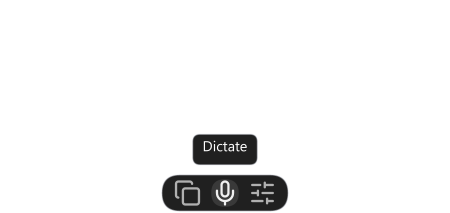
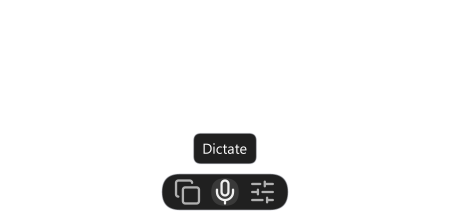
Prototype: islands are the hover bar only; centre the label text (#33)
Scoping call: a click-started recording stays one body. Islands are a shelf
of things you might pick; a session in progress is one object with a stop
and a cancel on it, and three floating pieces would say it is three things.

That gives clicking Dictate a shape change to make as well, so the two
bodies now crossfade while the glyphs travel. The mid-transition island
spacing does not track the recording layout — it does not need to while it
is fading out, but it is an approximation worth naming.

Also fixes the label: it was positioned on advance widths and a guessed
baseline, so the text sat off-centre by a different amount per string.
It now centres the ink horizontally and the cap band vertically.

Changed region(s): [[0.4044, 0.6226, 0.5911, 0.7642], [0.4044, 0.8208, 0.6222, 0.8491], [0.4356, 0.7642, 0.56, 0.7925]]

diff --git a/prototypes/pill_loop_proto.rs b/prototypes/pill_loop_proto.rs
@@ -474,9 +474,36 @@ impl TextRenderer {
         }
     }
 
-    fn width(&self, text: &str, px: f32) -> f32 {
-        let Some(f) = &self.font else { return 0.0 };
-        text.chars().map(|c| f.metrics(c, px).advance_width).sum()
+    /// Where the string's *ink* actually starts and ends, relative to the pen
+    /// origin. Advance widths include side bearings, so centring on them
+    /// leaves the visible text off-centre — by different amounts per string,
+    /// which is what makes it look sloppy rather than merely shifted.
+    fn ink_span(&self, text: &str, px: f32) -> (f32, f32) {
+        let Some(f) = &self.font else { return (0.0, 0.0) };
+        let (mut pen, mut lo, mut hi) = (0.0f32, f32::MAX, f32::MIN);
+        for ch in text.chars() {
+            let m = f.metrics(ch, px);
+            if m.width > 0 {
+                lo = lo.min(pen + m.xmin as f32);
+                hi = hi.max(pen + m.xmin as f32 + m.width as f32);
+            }
+            pen += m.advance_width;
+        }
+        if lo > hi {
+            (0.0, pen)
+        } else {
+            (lo, hi)
+        }
+    }
+
+    /// Height of a capital, for optical vertical centring. Centring the cap
+    /// band rather than the ink keeps "Dictate" and "Copy last transcript" on
+    /// the same line despite one having descenders.
+    fn cap_height(&self, px: f32) -> f32 {
+        self.font
+            .as_ref()
+            .map(|f| f.metrics('H', px).height as f32)
+            .unwrap_or(px * 0.7)
     }
 
     /// Draw `text` with its left edge at `x` and its baseline at `baseline`,
@@ -1103,11 +1130,32 @@ impl App {
             style: self.body(),
         }
     }
+    /// Always UNIFIED, whatever Q0 says. Islands are the *resident pill's
+    /// hover bar* — a shelf of things you might pick. A session in progress is
+    /// one object with a stop and a cancel on it, and breaking it into three
+    /// floating pieces would say the recording is three things.
     fn recclick_layout(&self) -> Layout {
         Layout {
             centre_w: BARS_W,
             flank_w: BTN_D,
-            style: self.body(),
+            style: &BODIES[0],
+        }
+    }
+
+    /// 1 = drawn as islands, 0 = drawn as one body. Only Expanded is ever
+    /// islands; Idle is a single nub either way, so it inherits whatever it is
+    /// travelling to or from and the crossfade never fires on a hover.
+    fn island_mix(&self, now: Instant) -> f32 {
+        if !self.body().islands {
+            return 0.0;
+        }
+        let islandy = |m: Mode| matches!(m, Mode::Expanded | Mode::Idle) as i32 as f32;
+        let to = islandy(self.mode);
+        match &self.anim {
+            Some(a) if self.anim_t(now) < 1.0 => {
+                lerp(islandy(a.from_mode), to, out_cubic(self.anim_t(now)))
+            }
+            _ => to,
         }
     }
 
@@ -1953,6 +2001,8 @@ impl App {
             history_empty: self.history_empty,
             dictate_ring_a: self.dictate().ring_a,
             fold: self.fold_at(now),
+            island_mix: self.island_mix(now),
+            island_layout: self.expanded_layout(),
             glyph_frac: GLYPH_SIZES[self.glyph].frac,
             strip: self.strip,
         };
@@ -2078,10 +2128,12 @@ impl App {
                 ui.add_space(4.0);
                 question(
                     ui,
-                    "Q0 · One body, or three islands?",
-                    "Not in the ticket — it came out of looking at the thing. #29 assumed one \
-                     body and never asked. Islands invert its slab argument: with a visible \
-                     gap, losing hover between buttons is honest rather than a flicker.",
+                    "Q0 · Is the hover bar one body, or three islands?",
+                    "Not in the ticket — it came out of looking at the thing. Islands apply to \
+                     the resident pill's hover bar ONLY; a click-started recording stays one \
+                     body, so clicking Dictate now has a shape change to make as well. They \
+                     also invert #29's slab argument: with a visible gap, losing hover between \
+                     buttons is honest rather than a flicker.",
                     &mut self.body,
                     BODIES.iter().map(|b| (b.name, b.note)),
                 );
@@ -2272,6 +2324,8 @@ struct Frame {
     history_empty: bool,
     dictate_ring_a: f32,
     fold: f32,
+    island_mix: f32,
+    island_layout: Layout,
     glyph_frac: f32,
     strip: bool,
 }
@@ -2304,14 +2358,27 @@ fn draw(
     let cx = w / 2.0;
     let cy = y + rh / 2.0;
 
-    let islands = f.layout.map(|l| l.style.islands).unwrap_or(false);
-    if islands {
+    // Islands and the single body coexist during a handover: the hover bar is
+    // islands, the recording pill is not, so clicking Dictate has to get from
+    // one to the other. They crossfade while the glyphs travel.
+    let mix = f.island_mix;
+    if mix < 0.999 {
+        let x = cx - sw / 2.0 + m;
+        let rw = (sw - 2.0 * m).max(1.0);
+        let r = (g.radius * scale).min(rh / 2.0);
+        body_shape(pm, g, x, y, rw, rh, r, border_w, 1.0 - mix);
+
+        // The hover indicator, behind the glyphs.
+        if let Some(l) = f.layout {
+            draw_indicator(pm, scale, f, l, cx, cy, rh, 1.0 - mix);
+        }
+    }
+    if mix > 0.001 {
         // Three bodies instead of one. The centre island interpolates from the
         // *whole pill's* current width, so at fold 0 it is exactly whatever
-        // single shape the pill would otherwise be — the nub on the way in,
-        // the 62x28 recording pill on the way out — and no special case is
-        // needed at either end.
-        let l = f.layout.expect("islands implies a layout");
+        // single shape the pill would otherwise be — the nub on the way in —
+        // and no special case is needed at either end.
+        let l = f.island_layout;
         for i in [0usize, 2, 1] {
             let target = l.island_w(i);
             let iw = if i == 1 {
@@ -2325,7 +2392,7 @@ fn draw(
             let dx = lerp(0.0, l.slot_dx(i), f.fold) * scale;
             let ix = cx + dx - iw / 2.0 + m;
             let irw = (iw - 2.0 * m).max(1.0);
-            body_shape(pm, g, ix, y, irw, rh, irw.min(rh) / 2.0, border_w);
+            body_shape(pm, g, ix, y, irw, rh, irw.min(rh) / 2.0, border_w, mix);
             // The island *is* the hover indicator — there is no gap for a
             // separate disc to distinguish itself from.
             let a = if f.lit == Some(i) {
@@ -2335,6 +2402,7 @@ fn draw(
             } else {
                 0.0
             };
+            let a = a * mix;
             if a > 0.5 {
                 let mut pb = PathBuilder::new();
                 rounded_rect(&mut pb, ix, y, irw, rh, irw.min(rh) / 2.0);
@@ -2345,16 +2413,6 @@ fn draw(
                     pm.fill_path(&p, &paint, FillRule::Winding, Transform::identity(), None);
                 }
             }
-        }
-    } else {
-        let x = cx - sw / 2.0 + m;
-        let rw = (sw - 2.0 * m).max(1.0);
-        let r = (g.radius * scale).min(rh / 2.0);
-        body_shape(pm, g, x, y, rw, rh, r, border_w);
-
-        // The hover indicator, behind the glyphs.
-        if let Some(l) = f.layout {
-            draw_indicator(pm, scale, f, l, cx, cy, rh);
         }
     }
 
@@ -2407,8 +2465,11 @@ fn body_shape(
     h: f32,
     r: f32,
     border_w: f32,
+    alpha: f32,
 ) {
-    if g.fill_a < 0.5 && g.border_a < 0.5 {
+    let fill_a = g.fill_a * alpha;
+    let border_a = g.border_a * alpha;
+    if fill_a < 0.5 && border_a < 0.5 {
         return;
     }
     let mut pb = PathBuilder::new();
@@ -2420,18 +2481,18 @@ fn body_shape(
         g.fill_rgb.0.clamp(0.0, 255.0) as u8,
         g.fill_rgb.1.clamp(0.0, 255.0) as u8,
         g.fill_rgb.2.clamp(0.0, 255.0) as u8,
-        g.fill_a.clamp(0.0, 255.0) as u8,
+        fill_a.clamp(0.0, 255.0) as u8,
     );
     fill.anti_alias = true;
     pm.fill_path(&path, &fill, FillRule::Winding, Transform::identity(), None);
 
-    if g.border_a >= 0.5 {
+    if border_a >= 0.5 {
         let mut border = Paint::default();
         border.set_color_rgba8(
             g.border_rgb.0.clamp(0.0, 255.0) as u8,
             g.border_rgb.1.clamp(0.0, 255.0) as u8,
             g.border_rgb.2.clamp(0.0, 255.0) as u8,
-            g.border_a.clamp(0.0, 255.0) as u8,
+            border_a.clamp(0.0, 255.0) as u8,
         );
         border.anti_alias = true;
         pm.stroke_path(
@@ -2447,13 +2508,22 @@ fn body_shape(
     }
 }
 
-fn draw_indicator(pm: &mut Pixmap, scale: f32, f: &Frame, l: Layout, cx: f32, cy: f32, rh: f32) {
+fn draw_indicator(
+    pm: &mut Pixmap,
+    scale: f32,
+    f: &Frame,
+    l: Layout,
+    cx: f32,
+    cy: f32,
+    rh: f32,
+    alpha: f32,
+) {
     let ind = |i: usize| -> (f32, f32) {
         (cx + l.slot_dx(i) * scale, l.slot_w(i) * scale / 2.0)
     };
     let white = (255.0, 255.0, 255.0);
     // #29: a fill behind the glyph at white @ ~28.
-    let a = 28.0 / 255.0;
+    let a = 28.0 / 255.0 * alpha;
     if f.slide {
         match (f.lit, f.lit_prev) {
             (Some(to), Some(from)) => {
@@ -2595,8 +2665,8 @@ fn draw_label(
         if alpha <= 0.004 && box_alpha <= 0.004 {
             return;
         }
-        let tw = text.width(t, px);
-        let bw = tw + 2.0 * pad_x;
+        let (ink_lo, ink_hi) = text.ink_span(t, px);
+        let bw = (ink_hi - ink_lo) + 2.0 * pad_x;
         let bh = px * 1.35 + 2.0 * pad_y;
         let bx = centre_x + dx * scale - bw / 2.0;
         let by = bottom - bh;
@@ -2626,10 +2696,9 @@ fn draw_label(
                 None,
             );
         }
-        // Baseline: fontdue's ascent for this size is close enough to
-        // (px * 0.78) for a single line of UI text.
-        let baseline = by + pad_y + px * 0.80;
-        text.draw(pm, t, bx + pad_x, baseline, px, alpha);
+        // Centre the cap band in the box, and the ink between the paddings.
+        let baseline = by + bh / 2.0 + text.cap_height(px) / 2.0;
+        text.draw(pm, t, bx + pad_x - ink_lo, baseline, px, alpha);
     };
 
     let p = f.label_p;
